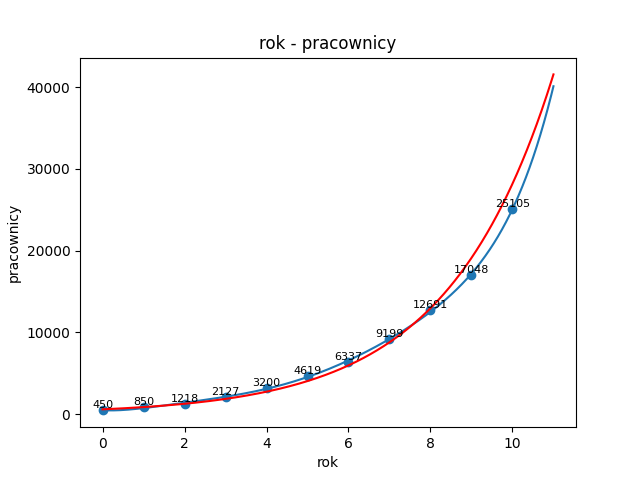
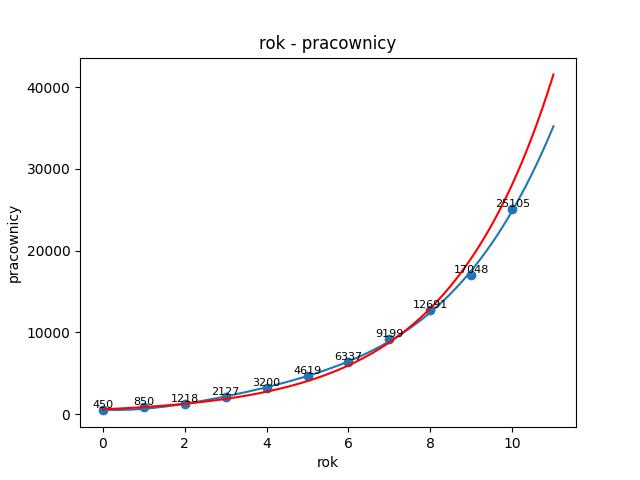
narysowane wszystkie wykresy

diff --git a/main.py b/main.py
@@ -22,7 +22,7 @@ for element in lista:
     zysk.append(int(element[2]))
     pracownicy.append(int(element[3]))
 
-stopien = 6
+stopien = 4
 
 new_rok = []
 for _ in range(len(rok)):
@@ -43,7 +43,7 @@ def wyznacz_funkcje_wielomianowa(x, y, stopien):
 def wyznacz_funkcje_wykladnicza(x, y):
     if len(x) != len(y):
         raise ValueError("Liczba punktów musi być taka sama.")
-    ln_y = np.log(y)
+    ln_y = np.log(np.abs(y))
     # Stwórz macierz A i wektor b
     A = np.vstack([np.ones(len(x)), x]).T
     b = ln_y
@@ -73,14 +73,16 @@ plt.savefig('rok-pracownicy.png')
 plt.close()
 
 plt.title('rok - przychod')
-funkcja_przychod, wspolczynniki_przychod = wyznacz_funkcje_wielomianowa(rok, przychod, stopien)
-for i, (x, y) in enumerate(zip(rok, przychod)):
+funkcja_przychod, wspolczynniki_przychod = wyznacz_funkcje_wielomianowa(new_rok, przychod, stopien)
+funkcja_wykladnicza_przychod , c, d = wyznacz_funkcje_wykladnicza(new_rok, przychod)
+for i, (x, y) in enumerate(zip(new_rok, przychod)):
     plt.text(x, y, f'{y}', fontsize=8, ha='center', va='bottom', color='black')
-plt.scatter(rok, przychod)
-x_przychod = np.linspace(2007,2017, 1000)
+plt.scatter(new_rok, przychod)
+x_przychod = np.linspace(0, len(new_rok), 1000)
 plt.xlabel('rok')
 plt.ylabel('przychod')
 plt.plot(x_przychod, funkcja_przychod(x_przychod))
+plt.plot(x_przychod, funkcja_wykladnicza_przychod(x_przychod),color='red')
 plt.savefig('rok-przychod.png')
 plt.close()
 
@@ -91,14 +93,16 @@ sorted_zysk = [zysk[i] for i in sorted_indices]
 
 # Utworzenie wykresu
 plt.title('rok - zysk')
-funkcja_zysk, wspolczynniki_zysk = wyznacz_funkcje_wielomianowa(rok, zysk, stopien)
-for i, (x, y) in enumerate(zip(sorted_rok, sorted_zysk)):
+funkcja_zysk, wspolczynniki_zysk = wyznacz_funkcje_wielomianowa(new_rok, zysk, stopien)
+funkcja_wykladnicza_zysk , k, l = wyznacz_funkcje_wykladnicza(new_rok, zysk)
+for i, (x, y) in enumerate(zip(new_rok, sorted_zysk)):
     plt.text(x, y, f'{y}', fontsize=8, ha='center', va='bottom', color='black')
-plt.scatter(sorted_rok, sorted_zysk)
+plt.scatter(new_rok, sorted_zysk)
 plt.xlabel('rok')
 plt.ylabel('zysk')
-x_zysk = np.linspace(2007,2017, 1000)
-plt.plot(x_zysk,funkcja_zysk(x_zysk))
+x_zysk = np.linspace(0,len(new_rok), 1000)
+plt.plot(x_zysk, funkcja_przychod(x_zysk))
+plt.plot(x_zysk, funkcja_wykladnicza_zysk(x_zysk),color='red')
 plt.savefig('rok-zysk.png')
 plt.close()
 

diff --git a/facebook.py b/facebook.py
@@ -185,20 +185,21 @@ print(A)
 print(Sa)
 
 
-def badanie_istotnosci(A, Sa):
-    for n, a in enumerate(A):
-        I = a / Sa[n][n]
-        print(I)
+#def badanie_istotnosci(A, Sa):
+#    for n, a in enumerate(A):
+##        I = a / Sa[n][n]
+ #       print(I)
 
 
-badanie_istotnosci(wspolczynniki, Sa)
+#badanie_istotnosci(wspolczynniki, Sa)
 
 ax[1, 0].set_title('rok - przychod')
-funkcja_przychod, wspolczynniki_przychod = wyznacz_funkcje_wielomianowa(rok, przychod, stopien)
-for i, (x, y) in enumerate(zip(rok, przychod)):
+funkcja_przychod, wspolczynniki_przychod = wyznacz_funkcje_wielomianowa(new_rok, przychod, stopien)
+funkcja_wykladnicza_przychod, a, b = wyznacz_funkcje_wykladnicza(new_rok, przychod)
+for i, (x, y) in enumerate(zip(new_rok, przychod)):
     ax[1, 0].text(x, y, f'{y}', fontsize=8, ha='center', va='bottom', color='black')
 ax[1, 0].scatter(rok, przychod)
-x_przychod = np.linspace(2007, 2017, 1000)
+x_przychod = np.linspace(0, len(new_rok), 1000)
 ax[1, 0].set_xlabel('rok')
 ax[1, 0].set_ylabel('przychod')
 ax[1, 0].plot(x_przychod, funkcja_przychod(x_przychod))
